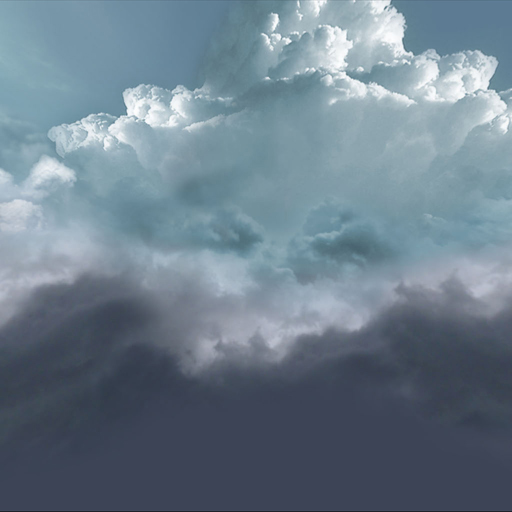
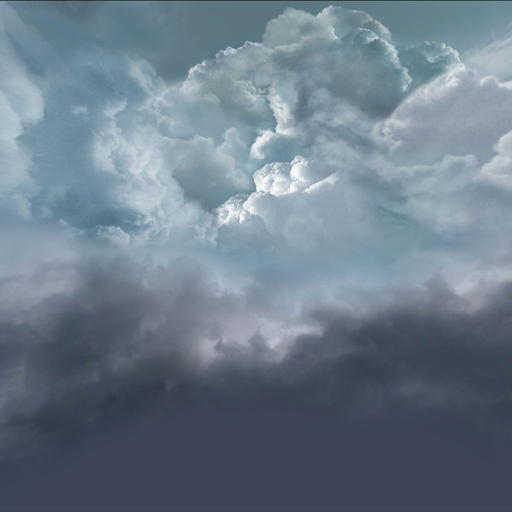
fix name + update code

diff --git a/CrazyMarble3DCLion/Game.cpp b/CrazyMarble3DCLion/Game.cpp
@@ -23,12 +23,12 @@ Game::Game(unsigned int x, unsigned int y) : width(1920), height(1080), zoom(0.5
 
     // OPTIONAL
     sceneManager->addSkyBoxSceneNode(
-            driver->getTexture("data/skybox/top.png"),
-            driver->getTexture("data/skybox/bottom.png"),
-            driver->getTexture("data/skybox/front.png"),
-            driver->getTexture("data/skybox/back.png"),
-            driver->getTexture("data/skybox/left.png"),
-            driver->getTexture("data/skybox/right.png"));
+            driver->getTexture("data/skybox/day/top.png"),
+            driver->getTexture("data/skybox/day/bottom.png"),
+            driver->getTexture("data/skybox/day/front.png"),
+            driver->getTexture("data/skybox/day/back.png"),
+            driver->getTexture("data/skybox/day/left.png"),
+            driver->getTexture("data/skybox/day/right.png"));
 
 
     this->player = new Player("Test", 20, sceneManager);
